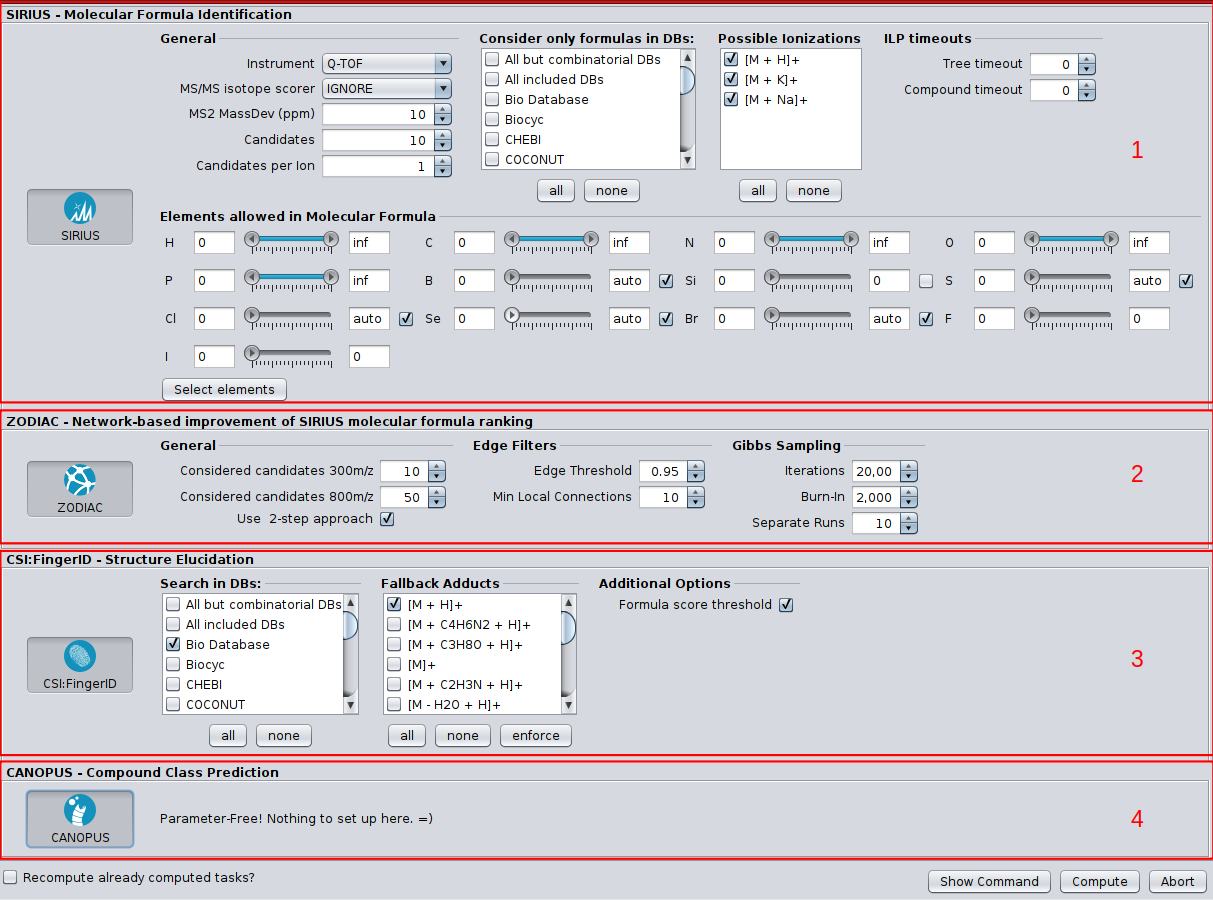
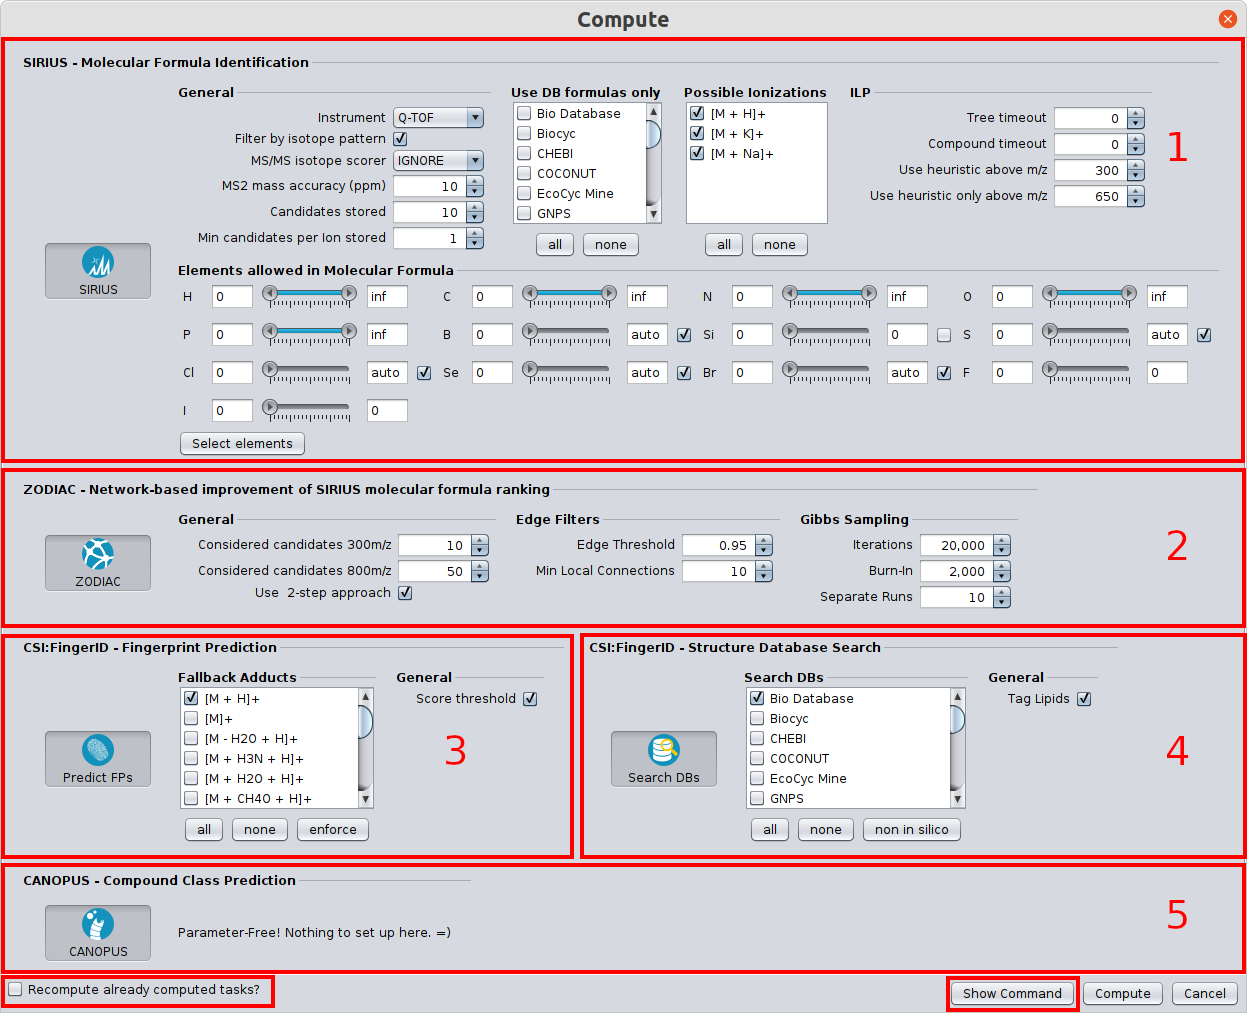
SIRIUS 5 compute dialog

diff --git a/docs/_pages/gui.md b/docs/_pages/gui.md
@@ -89,6 +89,15 @@ Right-clicking **multiple** selected compounds and choosing *Compute* will trigg
 the selected compounds.
 Clicking the *"Compute All"* button (toolbar) will compute all compounds in the project-space.
 
+Both dialogs are very similar. In *Single Computations* element prediction can be performed by clicking the respective button. 
+In *Batch Computations* check boxes indicate the elements that are automatically predicted for each compound. Also, you
+can select if results for compounds that already have been analyzed should be recomputed and overridden.
+
+The *Show Command* button shows the respective CLI command for the specified parameters. Hence, you can copy/paste this command
+and run analysis using the CLI.
+
+In the following, the *Batch Computation* dialog is shown.
+
 {% capture fig_img %}
 ![Foo]({{ "/assets/images/compute_marked.png" | relative_url }})
 {% endcapture %}
@@ -172,12 +181,20 @@ increase the chance that the correct molecular formula candidate is contained in
 
 Click [here](https://bio.informatik.uni-jena.de/software/zodiac/) to visit the Zodiac release page.
 
-### Identifying molecular structure with the CSI:FingerID tool  (3)
 
-After computing the fragmentation trees you can search these in a
-structure database. 
+### Predicting the molecular fingerprint with the CSI:FingerID tool  (3)
 
-When selecting the CSI:FingerID search (3) you can again select
+After computing the fragmentation trees you can predict [molecular fingerprints]({{ "/prerequisites/#molecular-fingerprints" | relative_url }}). 
+These can be used to either search in a structure database or predict compound classes with CANOPUS.
+
+Specified fallback adducts are used in case no adduct has been detected for the compound. If "score threshold" is activated, 
+fingerprints are only calculated for the top scoring fragmentation trees (molecular formulas). 
+
+### Identifying the molecular structure with the CSI:FingerID tool  (4)
+
+Predicted molecular fingerprints can be searched in a structure database. 
+
+When selecting the CSI:FingerID search you can again select
 multiple structure databases. When searching in biomolecule databases you might never see if there are structures
 with possibly much better score from PubChem. Therefore, we recommend to
 search in PubChem and filter the result list if you expect the result to
@@ -193,7 +210,7 @@ search is performed. COSMIC scores for a compound are shown in the compound list
 
 Click [here](https://bio.informatik.uni-jena.de/software/cosmic/) to visit the COSMIC release page.
 
-### Predicting Compound classes with the CANOPUS tool  (4)
+### Predicting Compound classes with the CANOPUS tool  (5)
 
 CANOPUS predicts [ClassyFire](http://classyfire.wishartlab.com/) compound classes from the molecular fingerprint. Class
 prediction is done without using any structure database. Thus, classes are predicted for all compounds for which the
